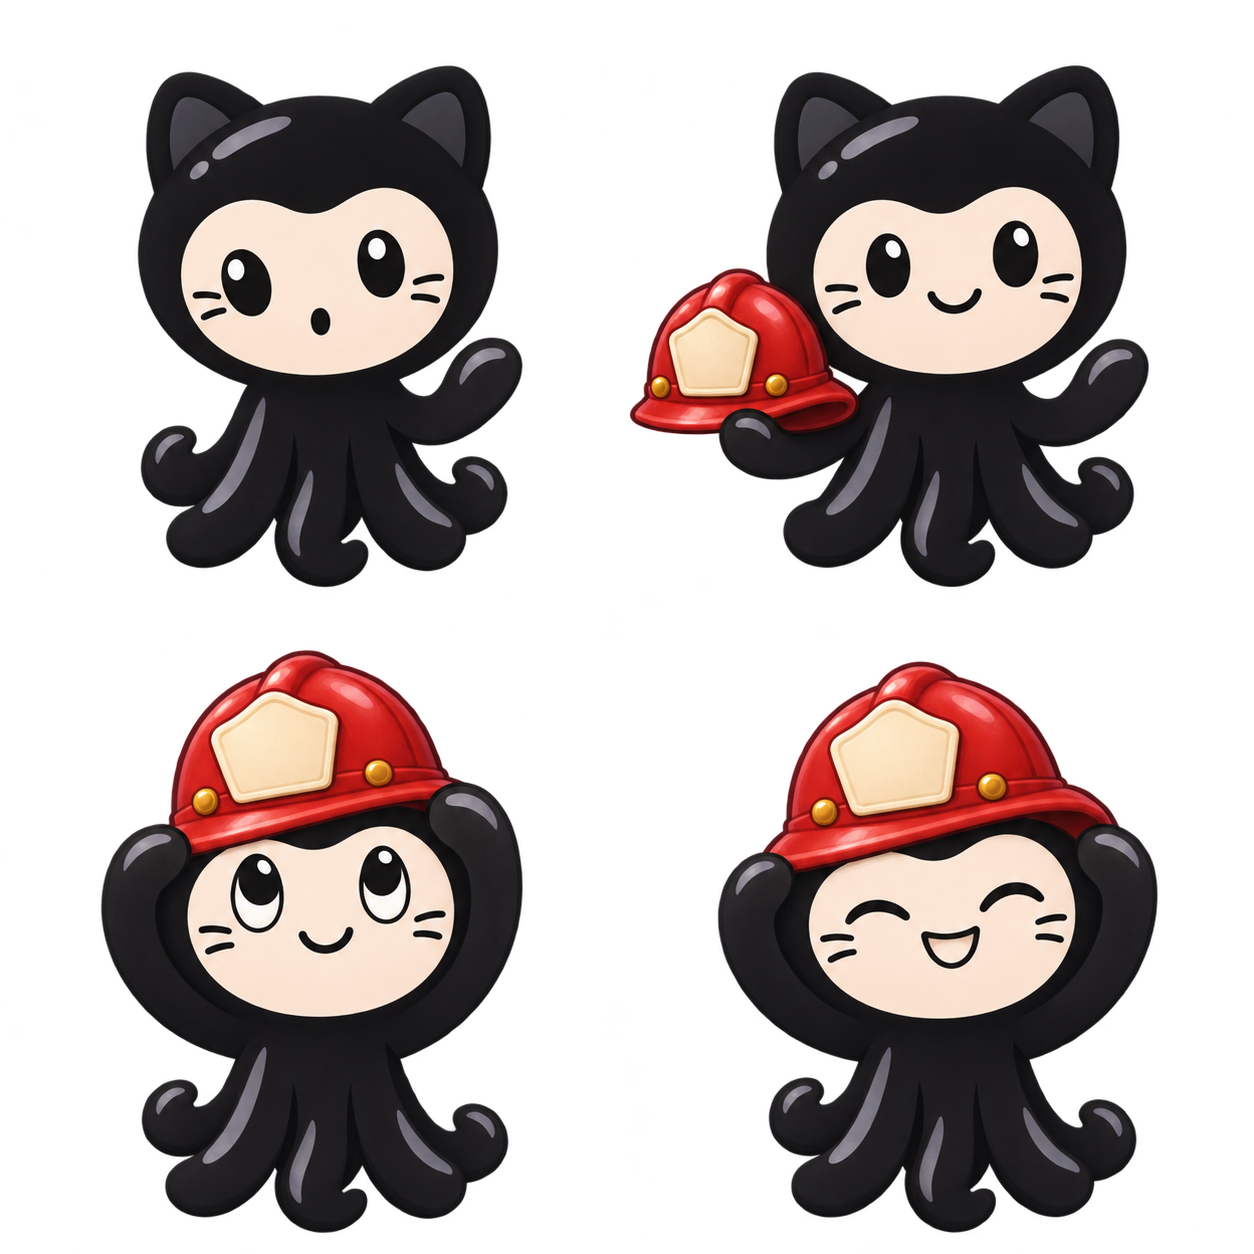
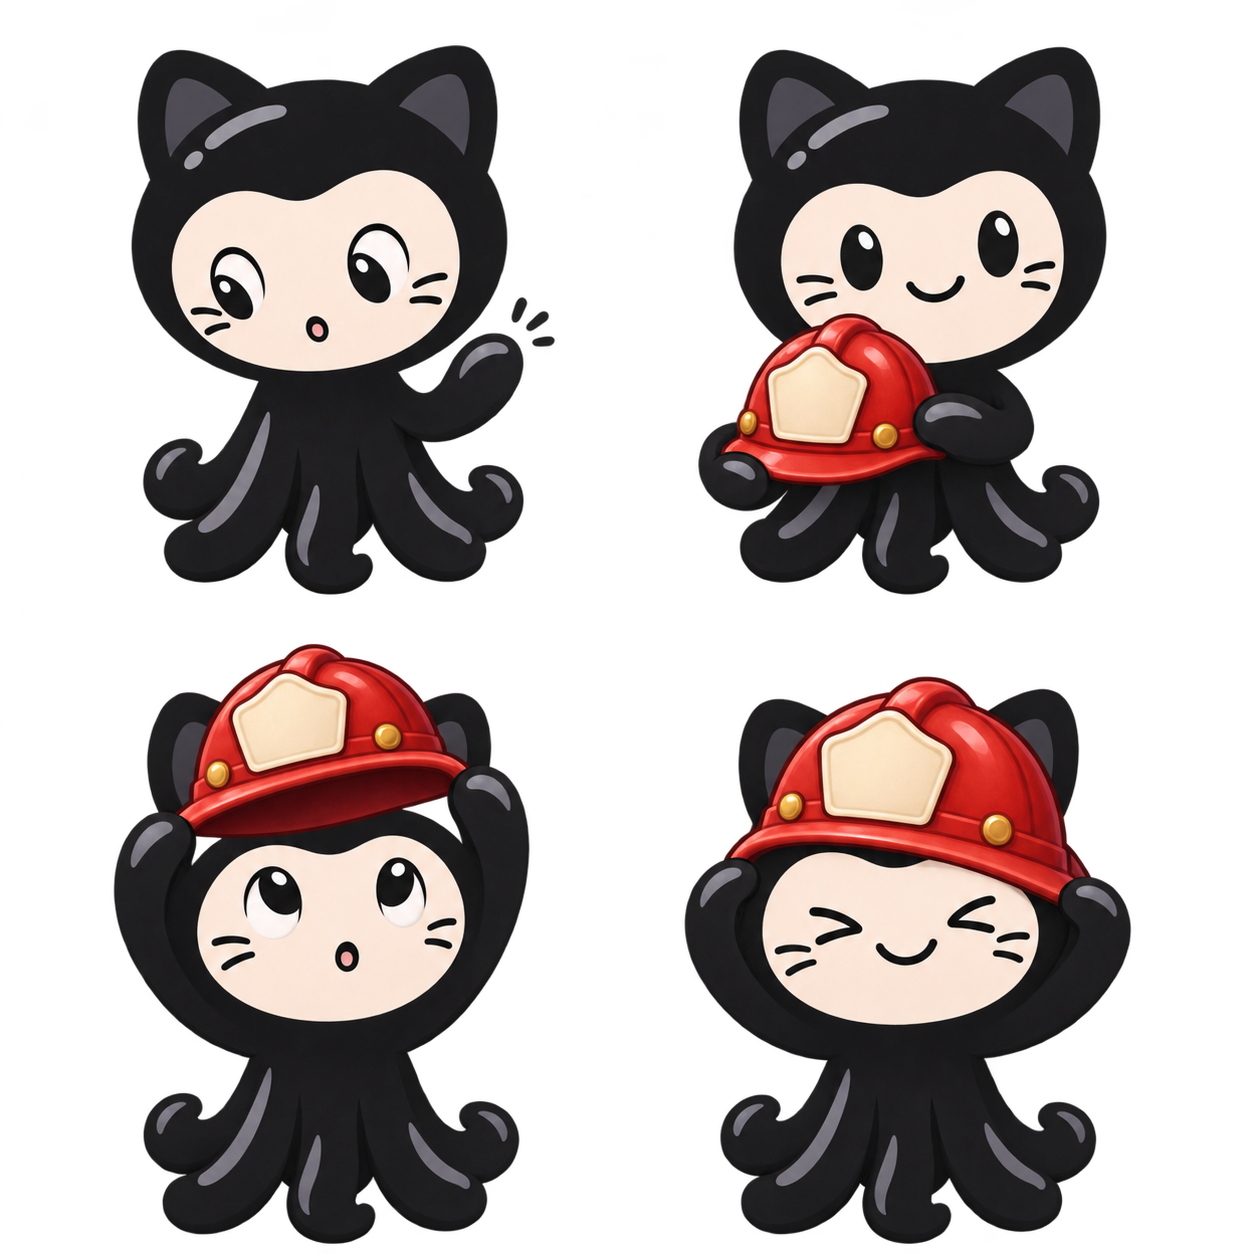
Replace Mona incident start pilot sheet

diff --git a/docs/design/provenance.md b/docs/design/provenance.md
@@ -9,6 +9,10 @@ Generated with the built-in `image_gen.imagegen` integration, requesting transpa
 | `assets/mascots/shared-fx-v1/sources/props-reference.png` | `exec-ec19e4c8-df29-4544-bdf2-1f2e190997f3` | Transparent 2×2 sheet: blank-shield red helmet, unlabelled extinguisher, sealed cream envelope, plain blue-screen phone. | None |
[1 lines of base64/hex data omitted]
 
+| `assets/mascots/mona-pet-v1/sources/incident-start-a-sheet.png` (replacement; supersedes pilot above) | `exec-d0959b6e-a36b-43cb-8d2c-266c2f555151` | Retry of incident-start 00–03 with down-left glance, compact held helmet, mid-lift, and low seated helmet. | Same three reference hashes as pilot above. |
+
+Replacement review: 00 glances down-left and 01 holds the helmet compactly; 02 suggests a lift but the brim is close to the head, and 03 still exposes ears and the crown appears high. 00 also has unwanted motion ticks. One hard-failure retry (`exec-32a7effa-9573-40b4-93dd-144a55d7d891`) concealed the ears in 03 but made 02 appear seated; the first replacement was retained as the better sequence. Neither meets all requested constraints; packing, bounds and baseline remain unverified.
+
 Both images are 1254×1254 and have alpha channels. Visual review: the helmet in pose 02 is already seated rather than clearly in transit, pose 01 looks forward rather than alert down-left, and pose 00's gaze is not clearly down-left. Helmet-on poses change the apparent head silhouette and scale; the helmet crown and overall bounds require measurement during later packing and review. No runtime frame, baseline, or bounds validation is claimed here. The props sheet places the helmet close to the central cell boundary. No retry or retouch was performed.
 
 Generated on 2026-11-12 using the built-in `image_gen.imagegen` integration under the imagegen skill. The orchestration terminal was launched with `gpt-6.1-sol`; the image integration does not expose its image-model identifier. No alternative model, procedural mascot, downloaded Octocat artwork, official GitHub logo, or credential was used.
